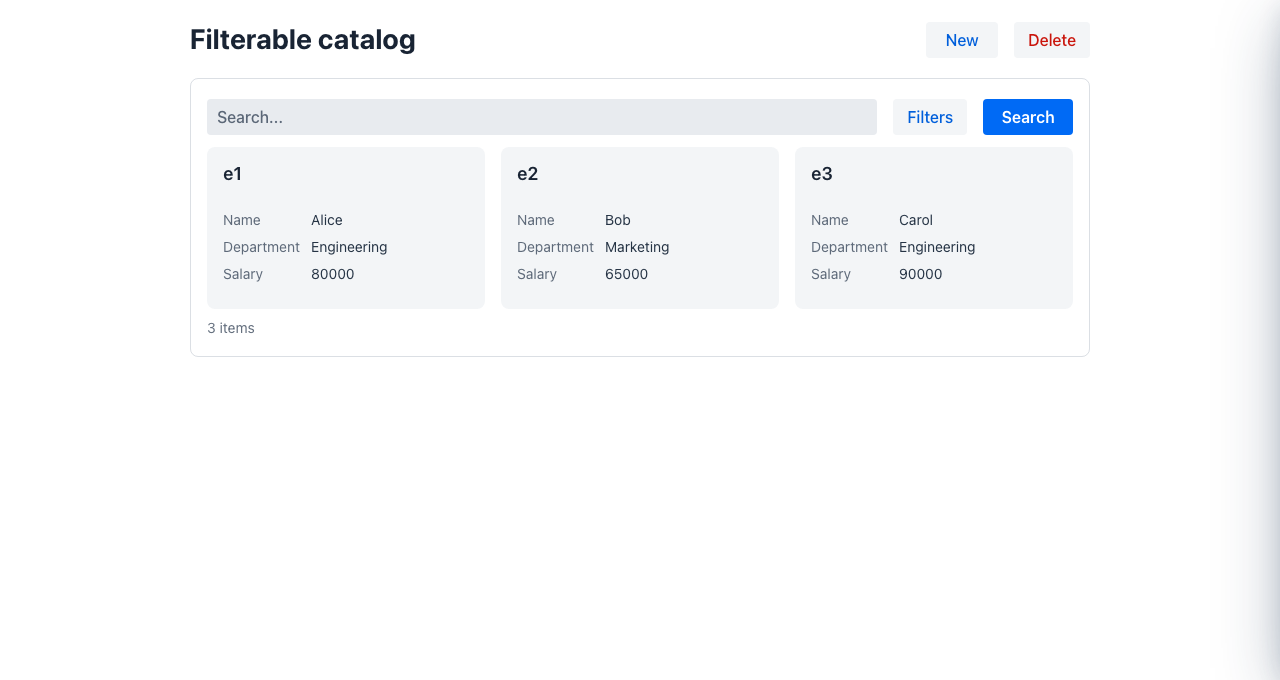
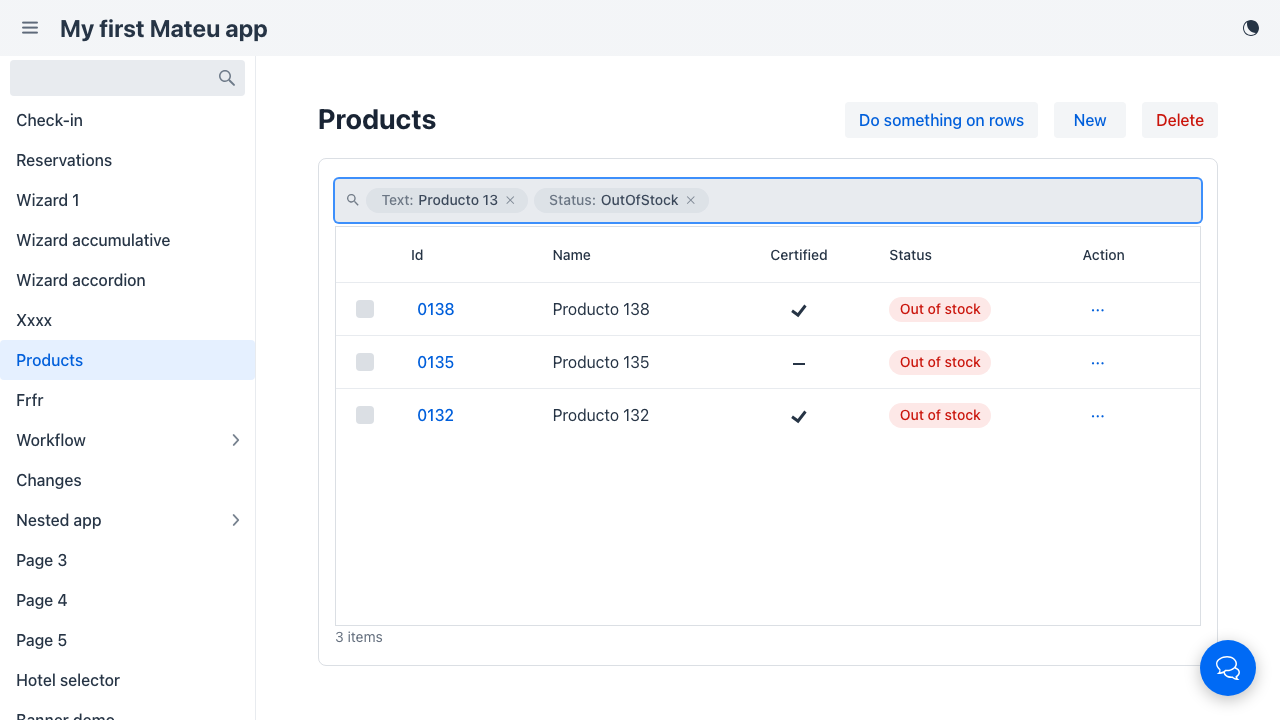
docs: smart-search filter bar pattern + don't open the panel on focus
Documentation for the new smart-search filter bar: the Filters &
Listing ux-pattern page now describes the single-field UX (Filter by
panel, type-specific widgets, chips, Clear filters) with fresh
screenshots, explains that enums become selects and that the default
in-memory CrudRepository.find applies the filters via the
difference-from-default baseline (with the filtering-by-a-default
caveat); the CrudRepository interface page drops the stale "filters
argument is ignored" note; hero-search facets wording updated.

Also a UX fix surfaced by the screenshots: both filter bars now open
the panel on click/typing instead of on focus — autoFocusOnSearchText
popped the panel on every page load.

diff --git a/frontend/web/monorepo/apps/redwood-oj/src/RedwoodOjComponentRenderer.ts b/frontend/web/monorepo/apps/redwood-oj/src/RedwoodOjComponentRenderer.ts
@@ -334,8 +334,12 @@ export class RedwoodOjComponentRenderer extends BasicComponentRenderer implement
                                placeholder="${chips.length === 0 ? 'Search' : ''}"
                                .value="${ui.text ?? ''}"
                                style="flex: 1 1 8rem; min-width: 7rem; border: none; outline: none; background: transparent; font: inherit; font-size: 0.875rem; color: ${TEXT}; padding: 0.25rem 0;"
-                               @focus="${openPanel}"
-                               @input="${(e: Event) => { ui.text = (e.target as HTMLInputElement).value }}"
+                               @input="${(e: Event) => {
+                                   ui.text = (e.target as HTMLInputElement).value
+                                   // open on typing (and on the bar click) rather than on focus:
+                                   // autoFocusOnSearchText would pop the panel on page load
+                                   openPanel()
+                               }}"
                                @keydown="${(e: KeyboardEvent) => {
                                    if (e.key === 'Enter') commitText(e.target as HTMLInputElement)
                                    if (e.key === 'Escape') closePanel()

diff --git a/frontend/web/monorepo/libs/mateu/src/mateu/ui/infra/ui/mateu-filter-bar.ts b/frontend/web/monorepo/libs/mateu/src/mateu/ui/infra/ui/mateu-filter-bar.ts
@@ -290,8 +290,12 @@ export class MateuFilterBar extends LitElement {
                                placeholder="${chips.length === 0 ? 'Search' : ''}"
                                autofocus="${this.metadata?.autoFocusOnSearchText ? true : nothing}"
                                .value="${this.draftText ?? ''}"
-                               @focus="${this.openPanel}"
-                               @input="${(e: Event) => { this.draftText = (e.target as HTMLInputElement).value }}"
+                               @input="${(e: Event) => {
+                                   this.draftText = (e.target as HTMLInputElement).value
+                                   // open on typing (and on the bar click below) rather than on
+                                   // focus: autoFocusOnSearchText would pop the panel on page load
+                                   this.openPanel()
+                               }}"
                                @keydown="${(e: KeyboardEvent) => {
                                    if (e.key === 'Enter') this.commitText(e.target as HTMLInputElement)
                                    if (e.key === 'Escape') this.closePanel()

diff --git a/doc/src/content/docs/ux-patterns/filters-and-listing.md b/doc/src/content/docs/ux-patterns/filters-and-listing.md
@@ -46,13 +46,41 @@ public class Product {
 }
 ```
 
-![Listing with filter bar, search and bulk actions](/images/docs/ux-patterns/filters.png)
+![Listing with the smart search bar: keyword and status chips applied](/images/docs/ux-patterns/filters.png)
+
+## The smart search bar
+
+Filters render as a **single search field** (after the Redwood Smart Search pattern), not as a row
+of inputs. The one field hosts both the free-text keyword search and the structured filters:
+
+- **Type and press Enter** to apply a keyword search (matched against `Searchable.searchableText()`
+  or `toString()`).
+- **Click the field** to open the *Filter by* panel listing every filter. Picking one opens a
+  type-specific widget: an option list for enums/selects, Yes/No for booleans, a small input with
+  Apply for text and numbers. Filters already set show their current value next to their name.
+- **Every applied condition becomes a chip** in the bar with its own ✕. Adding or removing a chip
+  re-runs the search immediately, so conditions compose (e.g. keyword + status).
+- **Clear filters** at the bottom of the panel resets everything at once.
+
+![The Filter by panel, opened by clicking the search field](/images/docs/ux-patterns/filters-panel.png)
+
+Which fields become filters is decided server-side, exactly as before: every basic field (strings,
+numbers, booleans, dates) **and every enum** of the filters class. Enums arrive as selects carrying
+their constants as options. There is nothing to configure on the frontend — every renderer that
+ships the shared filter bar (Vaadin, SAP UI5, PatternFly) gets this UX, and the Redwood renderer
+implements the same pattern with its own design system.
 
 ## Structure
 
 ```
 ┌──────────────────────────────────────────────────────────────┐
-│  Name [_________]  Category [___▼]   [Search]                │
+│ 🔍 (Text: widget ✕) (Category: Electronics ✕) [type here…]   │
+│    ┌─ FILTER BY ──────────────┐                              │
+│    │ Name                     │                              │
+│    │ Category     Electronics │                              │
+│    │ Active                   │                              │
+│    │ Clear filters            │                              │
+│    └──────────────────────────┘                              │
 ├──────────────────────────────────────────────────────────────┤
 │ ☐  Name            Category     Active   [Actions]           │
 │ ☑  Product A       Electronics  ✓        [Edit] [▼]          │
@@ -62,6 +90,16 @@ public class Product {
 │  [Deactivate selected]  [New]  [Export PDF] [Excel] [CSV]    │
 └──────────────────────────────────────────────────────────────┘
 ```
+
+## Filtering on the default repository
+
+You don't need to override anything for the filters to work: the default in-memory
+`CrudRepository.find` applies them. A filter counts as **set** when its value differs from a
+freshly-constructed instance of the filters class, so field initializers and primitive
+zeros/falses don't filter on their own. Strings match by case-insensitive containment, everything
+else (enums, booleans, numbers) by equality. The flip side: filtering **by** a field's default
+value (e.g. an initializer like `status = AVAILABLE`) needs an overridden `find` — see
+[CrudRepository](/java-ui-definition/interfaces/crud-repository/) for the DB-side version.
 
 ## Export
 

diff --git a/doc/src/content/docs/java-ui-definition/interfaces/crud-repository.md b/doc/src/content/docs/java-ui-definition/interfaces/crud-repository.md
@@ -166,10 +166,20 @@ You get a working `find` for free. The default implementation:
 
 1. loads `findAll()`,
 2. keeps rows whose text contains `searchText` — using `Searchable.searchableText()` when the entity implements [`Searchable`](/java-ui-definition/interfaces/searchable/), otherwise `toString()`,
-3. sorts by `pageable.sort()` (each `Sort` field is read reflectively via getter / record accessor / field), and
-4. slices out the requested page.
+3. applies the **field-level filters** (see below),
+4. sorts by `pageable.sort()` (each `Sort` field is read reflectively via getter / record accessor / field), and
+5. slices out the requested page.
 
-The `filters` argument is **ignored** by the default — override `find` to apply field-level filtering. This is fine for small/medium datasets; everything happens in memory.
+This is fine for small/medium datasets; everything happens in memory.
+
+**How the default decides a filter is set.** The `filters` object is hydrated from the component
+state, so fields the user never touched keep their initializers (or primitive zeros/falses). To
+tell them apart, the default compares each basic field (strings, numbers, booleans, chars, enums)
+against a freshly-constructed instance of the filters class — the no-arg constructor, or for
+records the canonical constructor fed with null/zero/false. Only fields whose value **differs from
+that baseline** filter the rows: strings by case-insensitive containment, everything else by
+equality. The flip side is that filtering **by** a field's default value (e.g. an initializer like
+`status = AVAILABLE`) is invisible to the default — override `find` if you need that.
 
 ### Overriding for database-side paging
 

diff --git a/CLAUDE.md b/CLAUDE.md
@@ -204,7 +204,7 @@ Response is `UIIncrementDto` (see `backend/shared/dtos`).
 - `@UI("/path")` on a class registers it as a routed view; no path means root.
 - `AutoCrud<T>` / `AutoCrudOrchestrator<T>` give full CRUD with minimal code.
 - `CrudRepository<T>` is the port; implement it inline or as a Spring `@Service` and return it from `repository()` in your `AutoCrud<T>` subclass.
-- **`CrudRepository.find(String searchText, T filters, Pageable pageable)` → `Page<T>`**: the single search+filter+sort+paginate entry point `AutoCrud` uses to fill the listing. It is a **`default`** method (so no existing implementer breaks): the default filters `findAll()` by `searchText` (via `Searchable.searchableText()`/`toString()`), then by the **field-level filters** — a filter field counts as SET only when its value differs from a freshly-constructed instance of the filters class (no-arg constructor, or the canonical constructor fed null/zero/false for records), because the filters object is hydrated from the component state and untouched fields keep their initializers/primitive defaults; strings match by case-insensitive containment, other basics (numbers, booleans, enums, chars) by equality (flip side: filtering BY a default value needs an overridden `find`) — then sorts by `pageable.sort()` (read reflectively via getter/record-accessor/field by `private static` helpers in `CrudRepository` — `uidl` has no property reader), then paginates in memory. Override it to push everything to the database. `Page<T>` already carries `totalElements`, so there is **no separate `count` method** — a DB impl runs the count + page queries inside `find`. Wired in `FilteredAutoCrud.fetchRows` (core), which now delegates to `repository().find(searchText, (T) filters, pageable)` instead of doing the in-memory `findAll().stream().filter().subList()` itself; override `fetchRows(...)` on the `AutoCrud` subclass only when you need the `HttpRequest`. Types live in `io.mateu.uidl.data`: `Page`, `Pageable(page,size,List<Sort>)`, `Sort(field,Direction)`, `Direction{ascending,descending}`.
+- **`CrudRepository.find(String searchText, T filters, Pageable pageable)` → `Page<T>`**: the single search+filter+sort+paginate entry point `AutoCrud` uses to fill the listing. It is a **`default`** method (so no existing implementer breaks): the default filters `findAll()` by `searchText` (via `Searchable.searchableText()`/`toString()`), then by the **field-level filters** — a filter field counts as SET only when its value differs from a freshly-constructed instance of the filters class (no-arg constructor, or the canonical constructor fed null/zero/false for records), because the filters object is hydrated from the component state and untouched fields keep their initializers/primitive defaults; strings match by case-insensitive containment, other basics (numbers, booleans, enums, chars) by equality (flip side: filtering BY a default value needs an overridden `find`) — then sorts by `pageable.sort()` (read reflectively via getter/record-accessor/field by `private static` helpers in `CrudRepository` — `uidl` has no property reader), then paginates in memory. **Frontend: the listing filters render as a SMART SEARCH BAR** (after the Redwood Smart Search pattern): one search field hosting the free-text keyword search (Enter commits it as a chip) and a "Filter by" panel (opened by clicking the bar or typing — NOT on focus, or `autoFocusOnSearchText` would pop it on page load) with a type-specific widget per filter (option list for enums/selects, Yes/No for booleans, input+Apply for text/number); applied conditions are chips with ✕, chip add/remove re-runs the search, "Clear filters" resets. Two implementations kept in sync: the shared `mateu-filter-bar` (Vaadin/sapui5/redhat — a LitElement with Lumo-var styling; the wire contract with `mateu-table-crud` is untouched: `value-changed`/`search-requested`/`filter-reset-requested`; `filtersLayout` and `mainFilter` are no longer consulted) and redwood-oj's `renderFilterBar` hook (stateless — panel/draft state in a WeakMap keyed by the crud element, hand-styled divs). User docs: `doc/.../ux-patterns/filters-and-listing.md`. Override it to push everything to the database. `Page<T>` already carries `totalElements`, so there is **no separate `count` method** — a DB impl runs the count + page queries inside `find`. Wired in `FilteredAutoCrud.fetchRows` (core), which now delegates to `repository().find(searchText, (T) filters, pageable)` instead of doing the in-memory `findAll().stream().filter().subList()` itself; override `fetchRows(...)` on the `AutoCrud` subclass only when you need the `HttpRequest`. Types live in `io.mateu.uidl.data`: `Page`, `Pageable(page,size,List<Sort>)`, `Sort(field,Direction)`, `Direction{ascending,descending}`.
 - **CRUD button labels**: override any of `newLabel()`, `saveLabel()`, `cancelLabel()`, `deleteLabel()`, `editLabel()`, `addAnotherLabel()`, `backToListLabel()`, `importLabel()`, `historyLabel()` in an `AutoCrud` subclass to replace the corresponding built-in English label. The default values are the method names in plain English (e.g. `newLabel()` → `"New"`). Implemented in `Crud.java`; consumed by `ListRouteResolver`, `CrudFormComponentBuilder`, and `ViewToolbarBuilder`.
 - Bean validation annotations (`@NotNull`, `@NotEmpty`, `@Min`, `@Max`) drive client-side and server-side validation automatically.
 - `Identifiable` interface on record/entity marks the ID field for CRUD.

diff --git a/doc/src/content/docs/ux-patterns/hero-search.md b/doc/src/content/docs/ux-patterns/hero-search.md
@@ -39,7 +39,7 @@ public class HotelSearch extends HeroSearch<HotelFilters, Hotel> {
 
 ![Hotel search](/images/docs/hero-search/hotel-search.png)
 
-- The `Filters` record fields become the **facets** next to the search box (the standard filters bar; layout auto-selects between inline, popover and drawer).
+- The `Filters` record fields become the **facets** of the search box (the standard [smart search bar](/ux-patterns/filters-and-listing/#the-smart-search-bar): they live in its *Filter by* panel and show as removable chips when applied).
 - Results render as **cards** by default — override `gridLayout()` to return `GridLayout.table` or any other layout.
 - The listing starts **empty** (distraction-free) and searches on enter. Add `@Trigger(type = TriggerType.OnLoad, actionId = "search")` on the class to preload results.
 - Override `heroImage()` to set a background image for the hero (a dark overlay keeps the text readable).